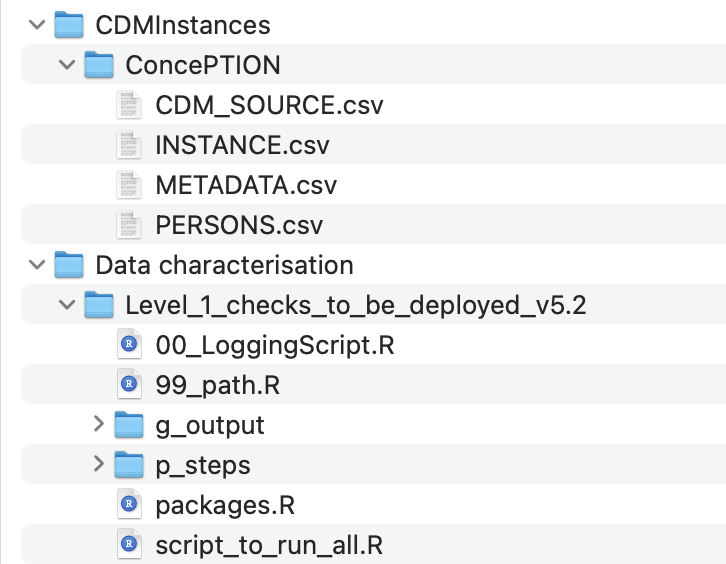
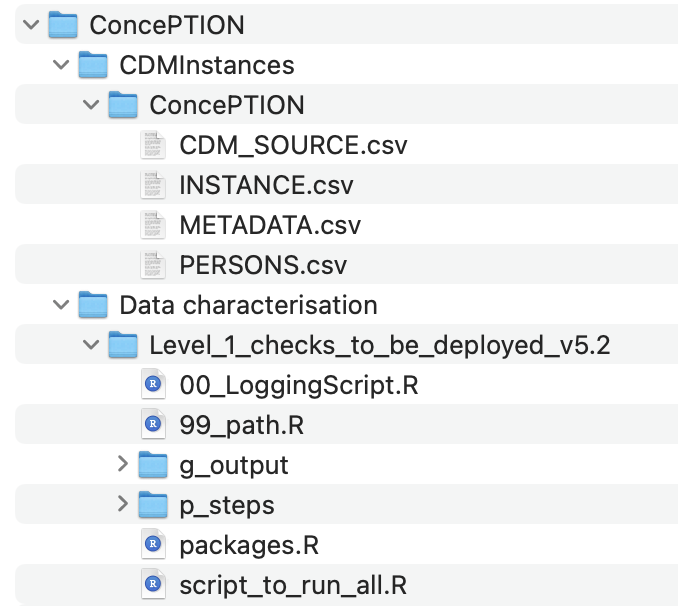
Change picture of folder structure, fix minor misspelling in readme.md

Changed region(s): [[0.031, 0.0, 0.8982, 0.9947]]

diff --git a/README.md b/README.md
@@ -132,7 +132,7 @@ Installation steps for Level 1 check:
     * [CDMInstances](./CDMInstances)
         * [Project_name](./CDMInstances/Project_name)
             * [files.csv](./CDMInstances/Project_name/files.csv) (here your files)    
-     * [Data characterisation](./Data characterisation) 
+     * [Data characterisation](./Data_characterisation) 
        * [Level_1_checks_to_be_deployed_v5.2](./Data_characterisation/Level_1_checks_to_be_deployed_v5.2)
        * [Level_2_checks_to_be_deployed2.0](./Data_characterisation/Level_2_checks_to_be_deployed2.0)
        * [Level_3_to_be_deployed1.0](./Data_characterisation/Level_3_to_be_deployed1.0)
